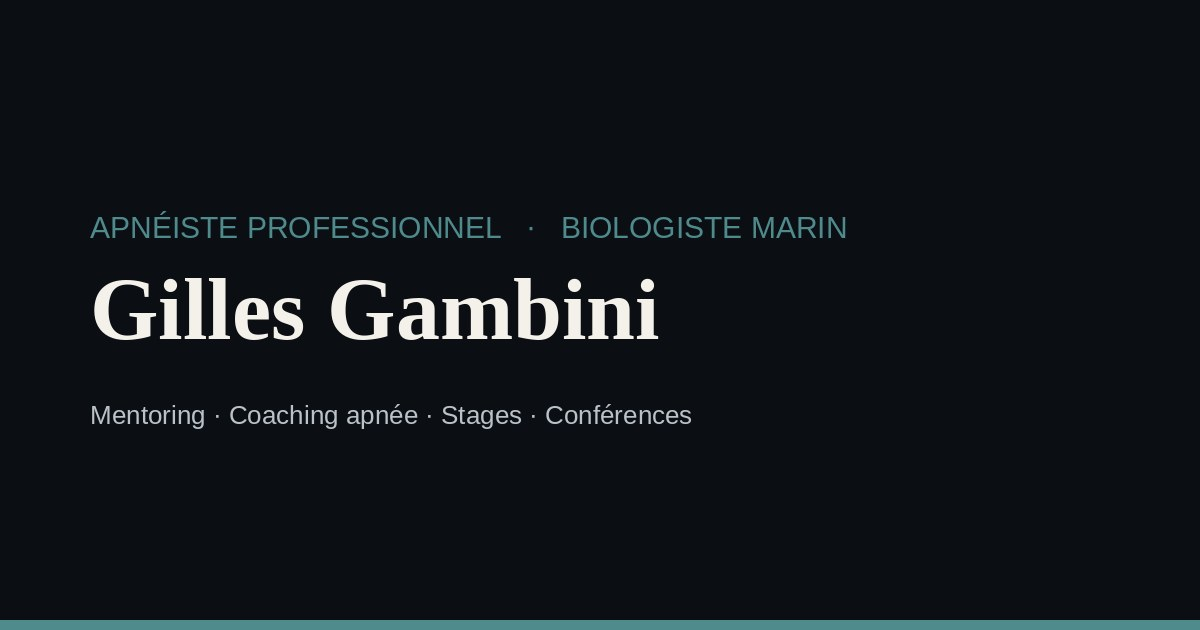
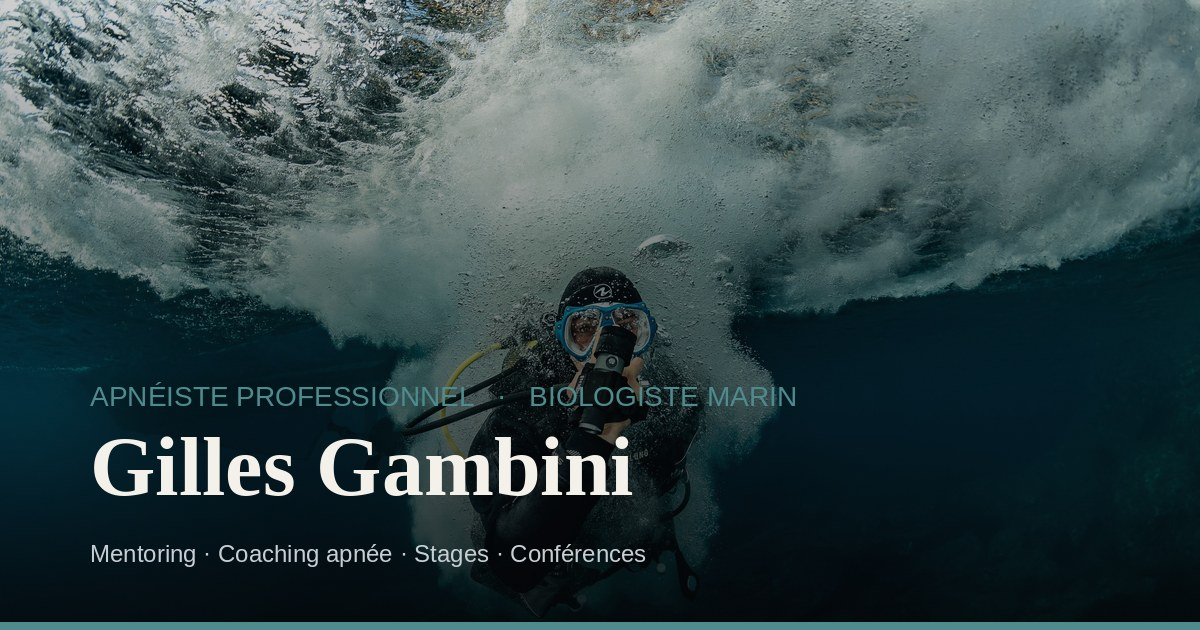
feat: use chosen final photos for hero and OG image
Replace the compressed grand-fond placeholder with the wave/emerging
freediver shot Gilles picked for the homepage hero, and regenerate
og-default.jpg from that same photo (was a flat color background)
so social share cards show real imagery. Portrait stays as-is
(profil_01.JPG) — already the shot he wants for "Qui suis-je".

Claude-Session: https://claude.ai/code/session_01NNXEsfjaUYcXYgwye9TJei

diff --git a/web/README.md b/web/README.md
@@ -27,22 +27,25 @@ npm run preview   # sert le build de production
 - [x] SEO/perf : sitemap, robots.txt, meta canonical/OG/Twitter, image OG par défaut,
       polices auto-hébergées, images optimisées via `astro:assets` (Lighthouse ~97-100 sur
       toutes les pages testées, cf. "SEO & performance" ci-dessous)
-- [ ] Optimisation images finales (remplacer les photos placeholder dans `public/images/` et
-      `src/assets/images/`)
-- [ ] Choisir l'hébergeur (Vercel ou Netlify) et déployer (voir "Déploiement" ci-dessous)
+- [x] Photos définitives choisies avec Gilles pour le hero, le portrait et l'image OG (voir
+      "SEO & performance" ci-dessous) — les autres photos du dossier `Photo/` restent à trier au
+      fil de l'ajout de nouvelles pages/galeries
+- [x] Hébergeur choisi (Netlify) et site déployé — https://gilles-gambini.netlify.app
 
 ## SEO & performance
 
 - Sitemap généré automatiquement (`@astrojs/sitemap`) + `public/robots.txt`.
 - Chaque page a un titre, une description, une URL canonique et des balises Open
   Graph/Twitter Card (voir `src/layouts/BaseLayout.astro`). Image OG par défaut :
-  `public/og-default.jpg` (à remplacer par une vraie photo dès que possible).
+  `public/og-default.jpg`, générée à partir de la photo hero définitive (`APNEE/gilles 4.jpg`
+  dans le repo d'origine).
 - Polices Fraunces/Archivo auto-hébergées via `@fontsource*` plutôt que chargées depuis
   fonts.googleapis.com — supprime une requête bloquante et une dépendance externe.
-- Les images utilisées dans les pages (`src/assets/images/`) passent par `astro:assets`
-  (`<Image />`) : conversion WebP, tailles responsives, `width`/`height` explicites contre le
-  layout shift. Les photos encore en `public/images/` sont des placeholders non utilisés par
-  une page — à trier une fois les photos définitives choisies.
+- Les images utilisées dans les pages (`src/assets/images/hero-wave.jpg`, `portrait.jpg`) passent
+  par `astro:assets` (`<Image />`) : conversion WebP, tailles responsives, `width`/`height`
+  explicites contre le layout shift. Les photos encore en `public/images/` (ice, apnee, hyperbare,
+  science) ne sont pas utilisées par une page — à trier au fil de l'ajout de nouvelles
+  pages/galeries.
 - **`site` dans `astro.config.mjs` est un placeholder (`gilles-gambini.example`)** — à
   remplacer par le vrai nom de domaine dès qu'il est choisi (utilisé par le sitemap, les URLs
   canoniques et les balises Open Graph).
